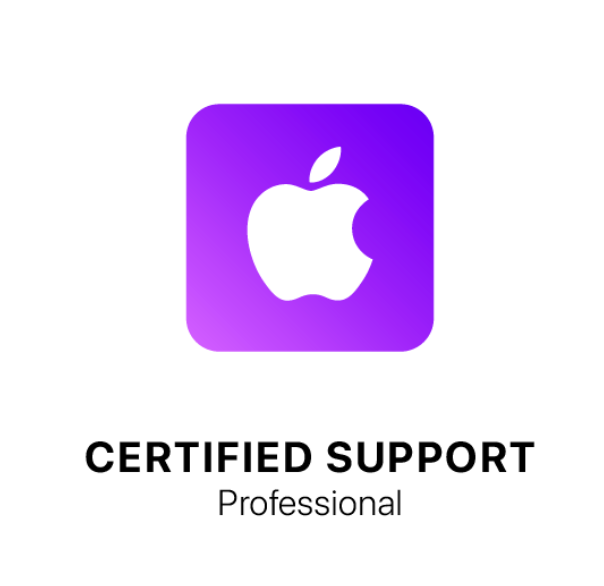
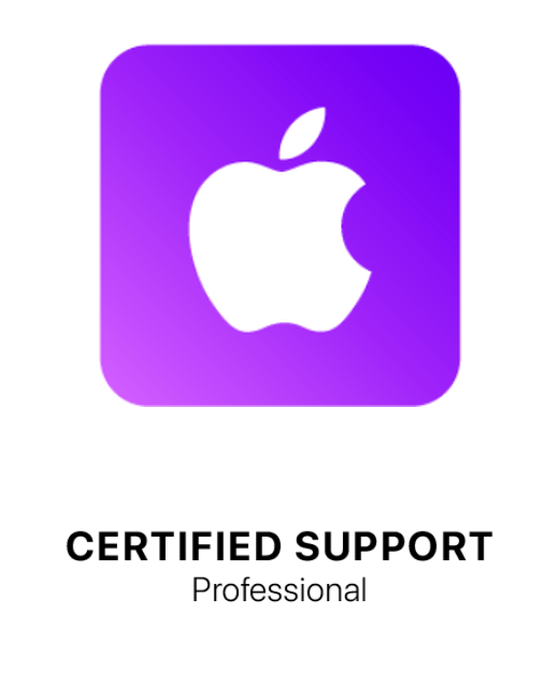
fix(images): ecualizar proporciones y escala de insignia Apple Support Professional para coincidencia 1:1 con las demas insignias

Changed region(s): [[0.1518, 0.0614, 0.85, 0.6143], [0.1214, 0.7372, 0.8804, 0.8908]]

diff --git a/index.html b/index.html
@@ -1029,13 +1029,13 @@
           
           <div class="apple-cert-badges-grid">
             <div class="apple-cert-badge-card">
-              <img src="./images/apple_cert_support_professional.png" alt="Apple Certified Support Professional" width="110" height="110" loading="lazy" decoding="async">
+              <img src="./images/apple_cert_support_professional.png?v=2" alt="Apple Certified Support Professional" width="110" height="135" loading="lazy" decoding="async">
             </div>
             <div class="apple-cert-badge-card">
-              <img src="./images/apple_cert_repair_technician.png" alt="Apple Certified Repair Technician" width="110" height="110" loading="lazy" decoding="async">
+              <img src="./images/apple_cert_repair_technician.png?v=2" alt="Apple Certified Repair Technician" width="110" height="135" loading="lazy" decoding="async">
             </div>
             <div class="apple-cert-badge-card">
-              <img src="./images/apple_cert_support_technician.png" alt="Apple Certified Support Technician" width="110" height="110" loading="lazy" decoding="async">
+              <img src="./images/apple_cert_support_technician.png?v=2" alt="Apple Certified Support Technician" width="110" height="135" loading="lazy" decoding="async">
             </div>
           </div>
         </div>
@@ -1943,7 +1943,7 @@
   <script>
   if ('serviceWorker' in navigator) {
     window.addEventListener('load', function() {
-      navigator.serviceWorker.register('/sw.js?v=1.5.6-ops').then(function(registration) {
+      navigator.serviceWorker.register('/sw.js?v=1.5.7-ops').then(function(registration) {
         registration.update();
         if (registration.waiting) {
           registration.waiting.postMessage({ type: 'SKIP_WAITING' });

diff --git a/sw.js b/sw.js
@@ -1,6 +1,6 @@
 // Service Worker for macWave Mexico - Performance & Caching
 // v1.4.0: no cachear HTML (evita footer/login viejos tras hotfix OPS)
-const CACHE_NAME = 'macwave-v1.5.6-ops';
+const CACHE_NAME = 'macwave-v1.5.7-ops';
 const urlsToCache = [
   '/style.css?v=27.6.0',
   '/script.js?v=26.5.3',
